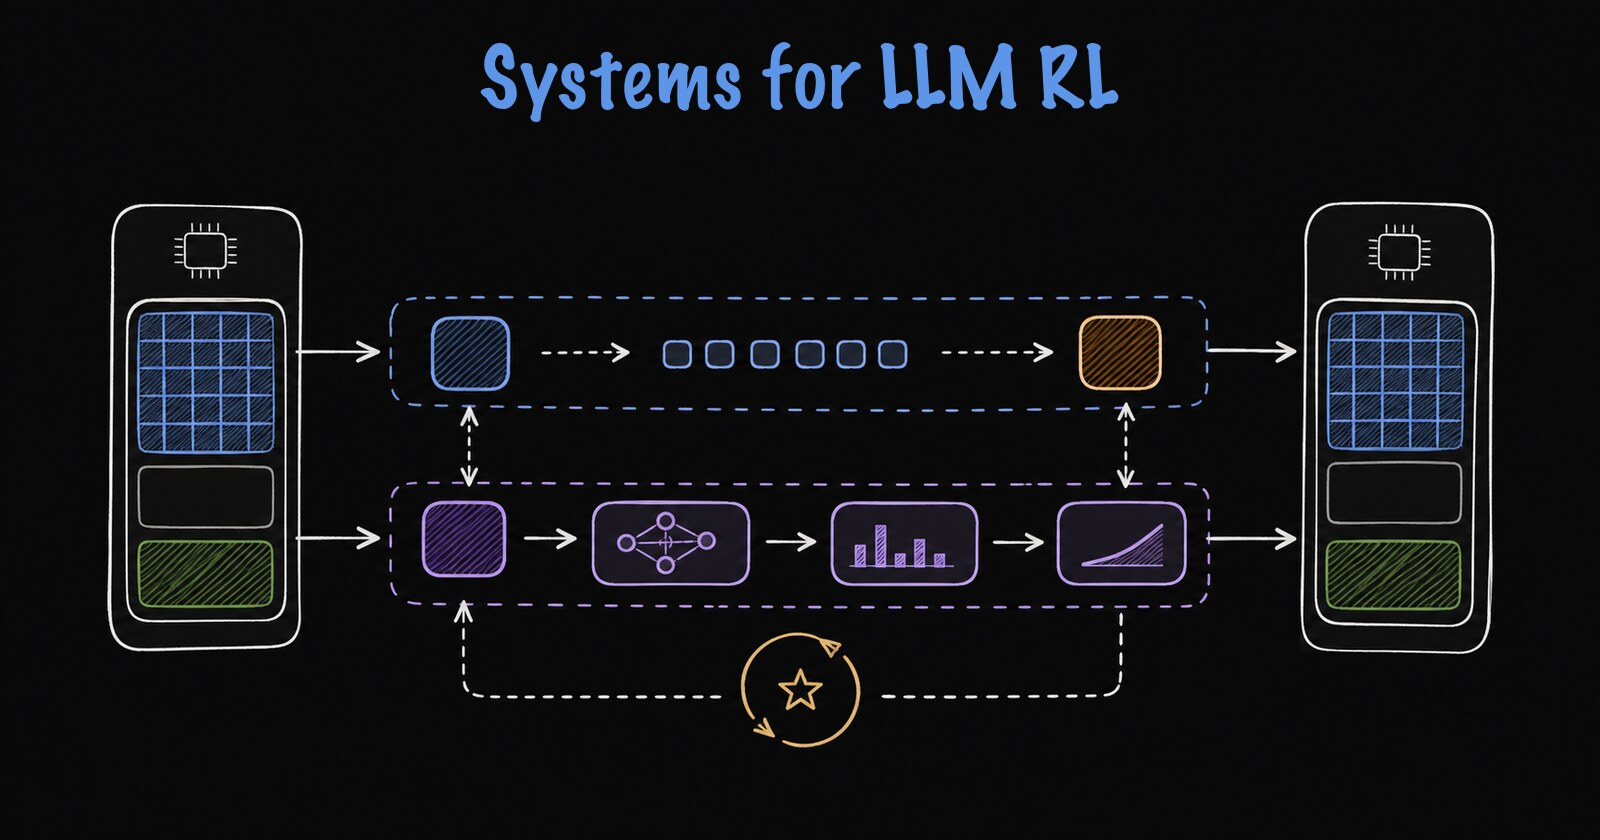
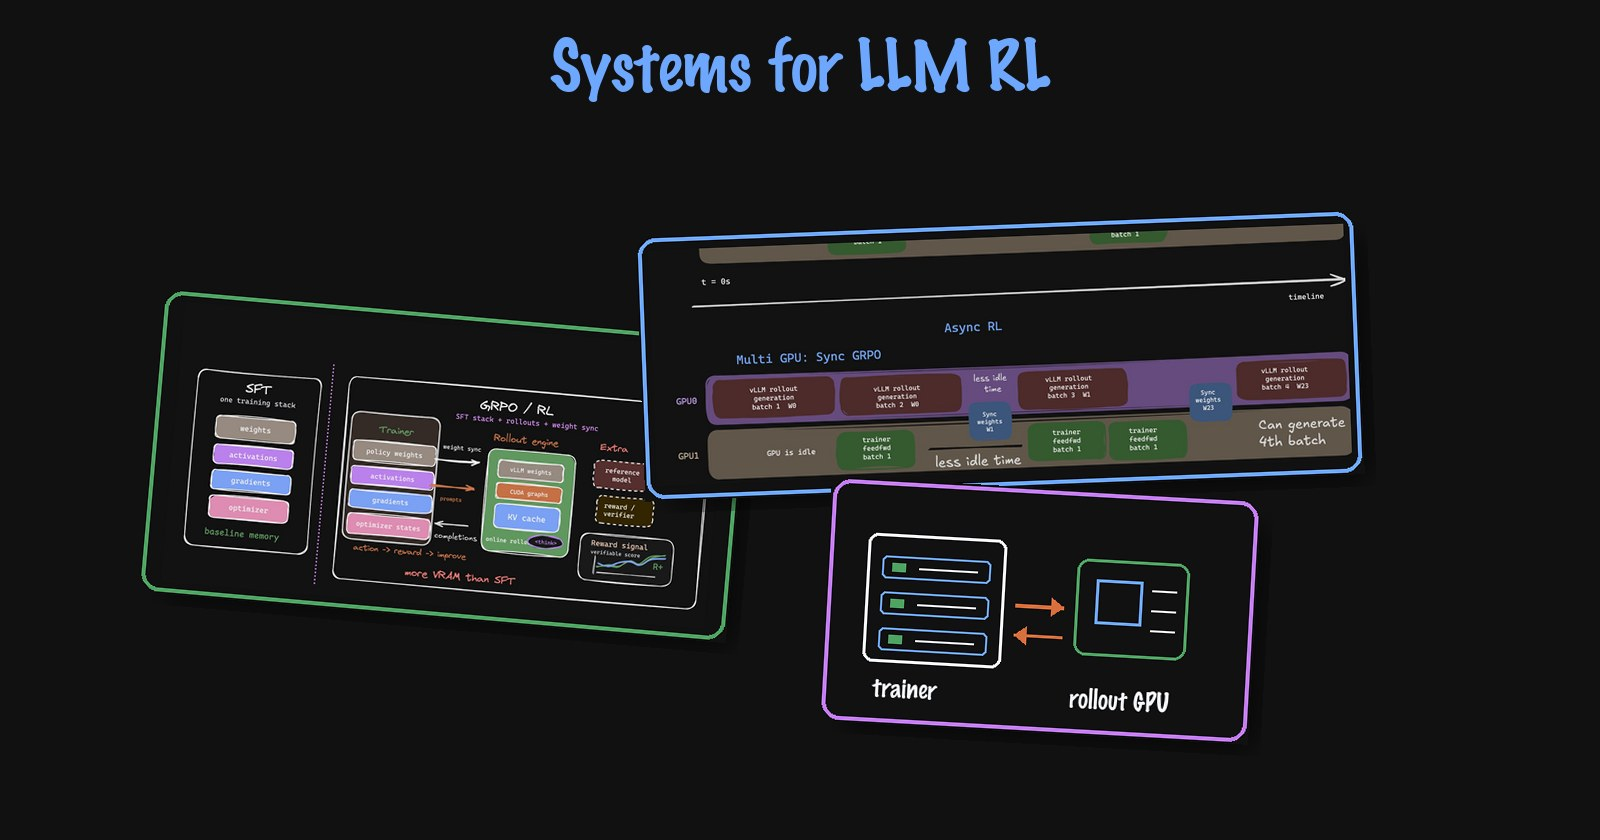
Header and an image

diff --git a/_posts/2026-05-21-systems-for-llm-rl.md b/_posts/2026-05-21-systems-for-llm-rl.md
@@ -8,7 +8,7 @@ tags: [LLM, Fine-tuning, RL, Math, Systems, GPU]
 math: true
 image:
   path: /assets/img/blogs/systems_for_llm_rl/systems_for_llm_rl_header_wide.jpg
-  alt: Systems diagram for LLM reinforcement learning with rollout, training, and weight sync lanes
+  alt: Collage of SFT versus RL memory, async rollout scheduling, and GPU server systems for LLM RL
   no_bg: true
 ---
 
@@ -49,6 +49,11 @@ Though this does come with some benefits, it also comes with its own challenges.
 - Reference model needs its own share
 - In cases like PPO, you also need a value model and its own optimisation
 - Once you introduce a separate process to generate rollouts (like vLLM), you need to make sure it stays up to date with the weights.
+
+At a high level, this is why online RL feels much heavier than SFT. SFT mostly keeps one training stack alive: model weights, activations, gradients, and optimizer state. GRPO/RL adds a rollout engine that must generate thinking traces/completions, maintain inference-time state like KV cache, score samples with rewards/verifiers, and then sync updated trainer weights back into the inference engine. So the problem is not just "more memory"; it is also coordinating two systems that both need a fresh enough copy of the same policy.
+
+![SFT versus GRPO systems](/assets/img/blogs/systems_for_llm_rl/sft_vs_rl.jpg)
+*Compared with SFT, online RL adds rollout memory and a weight-sync path between trainer and inference.*
 
 Let's go through this methodically and try to analyse the memory requirement of the same.
 